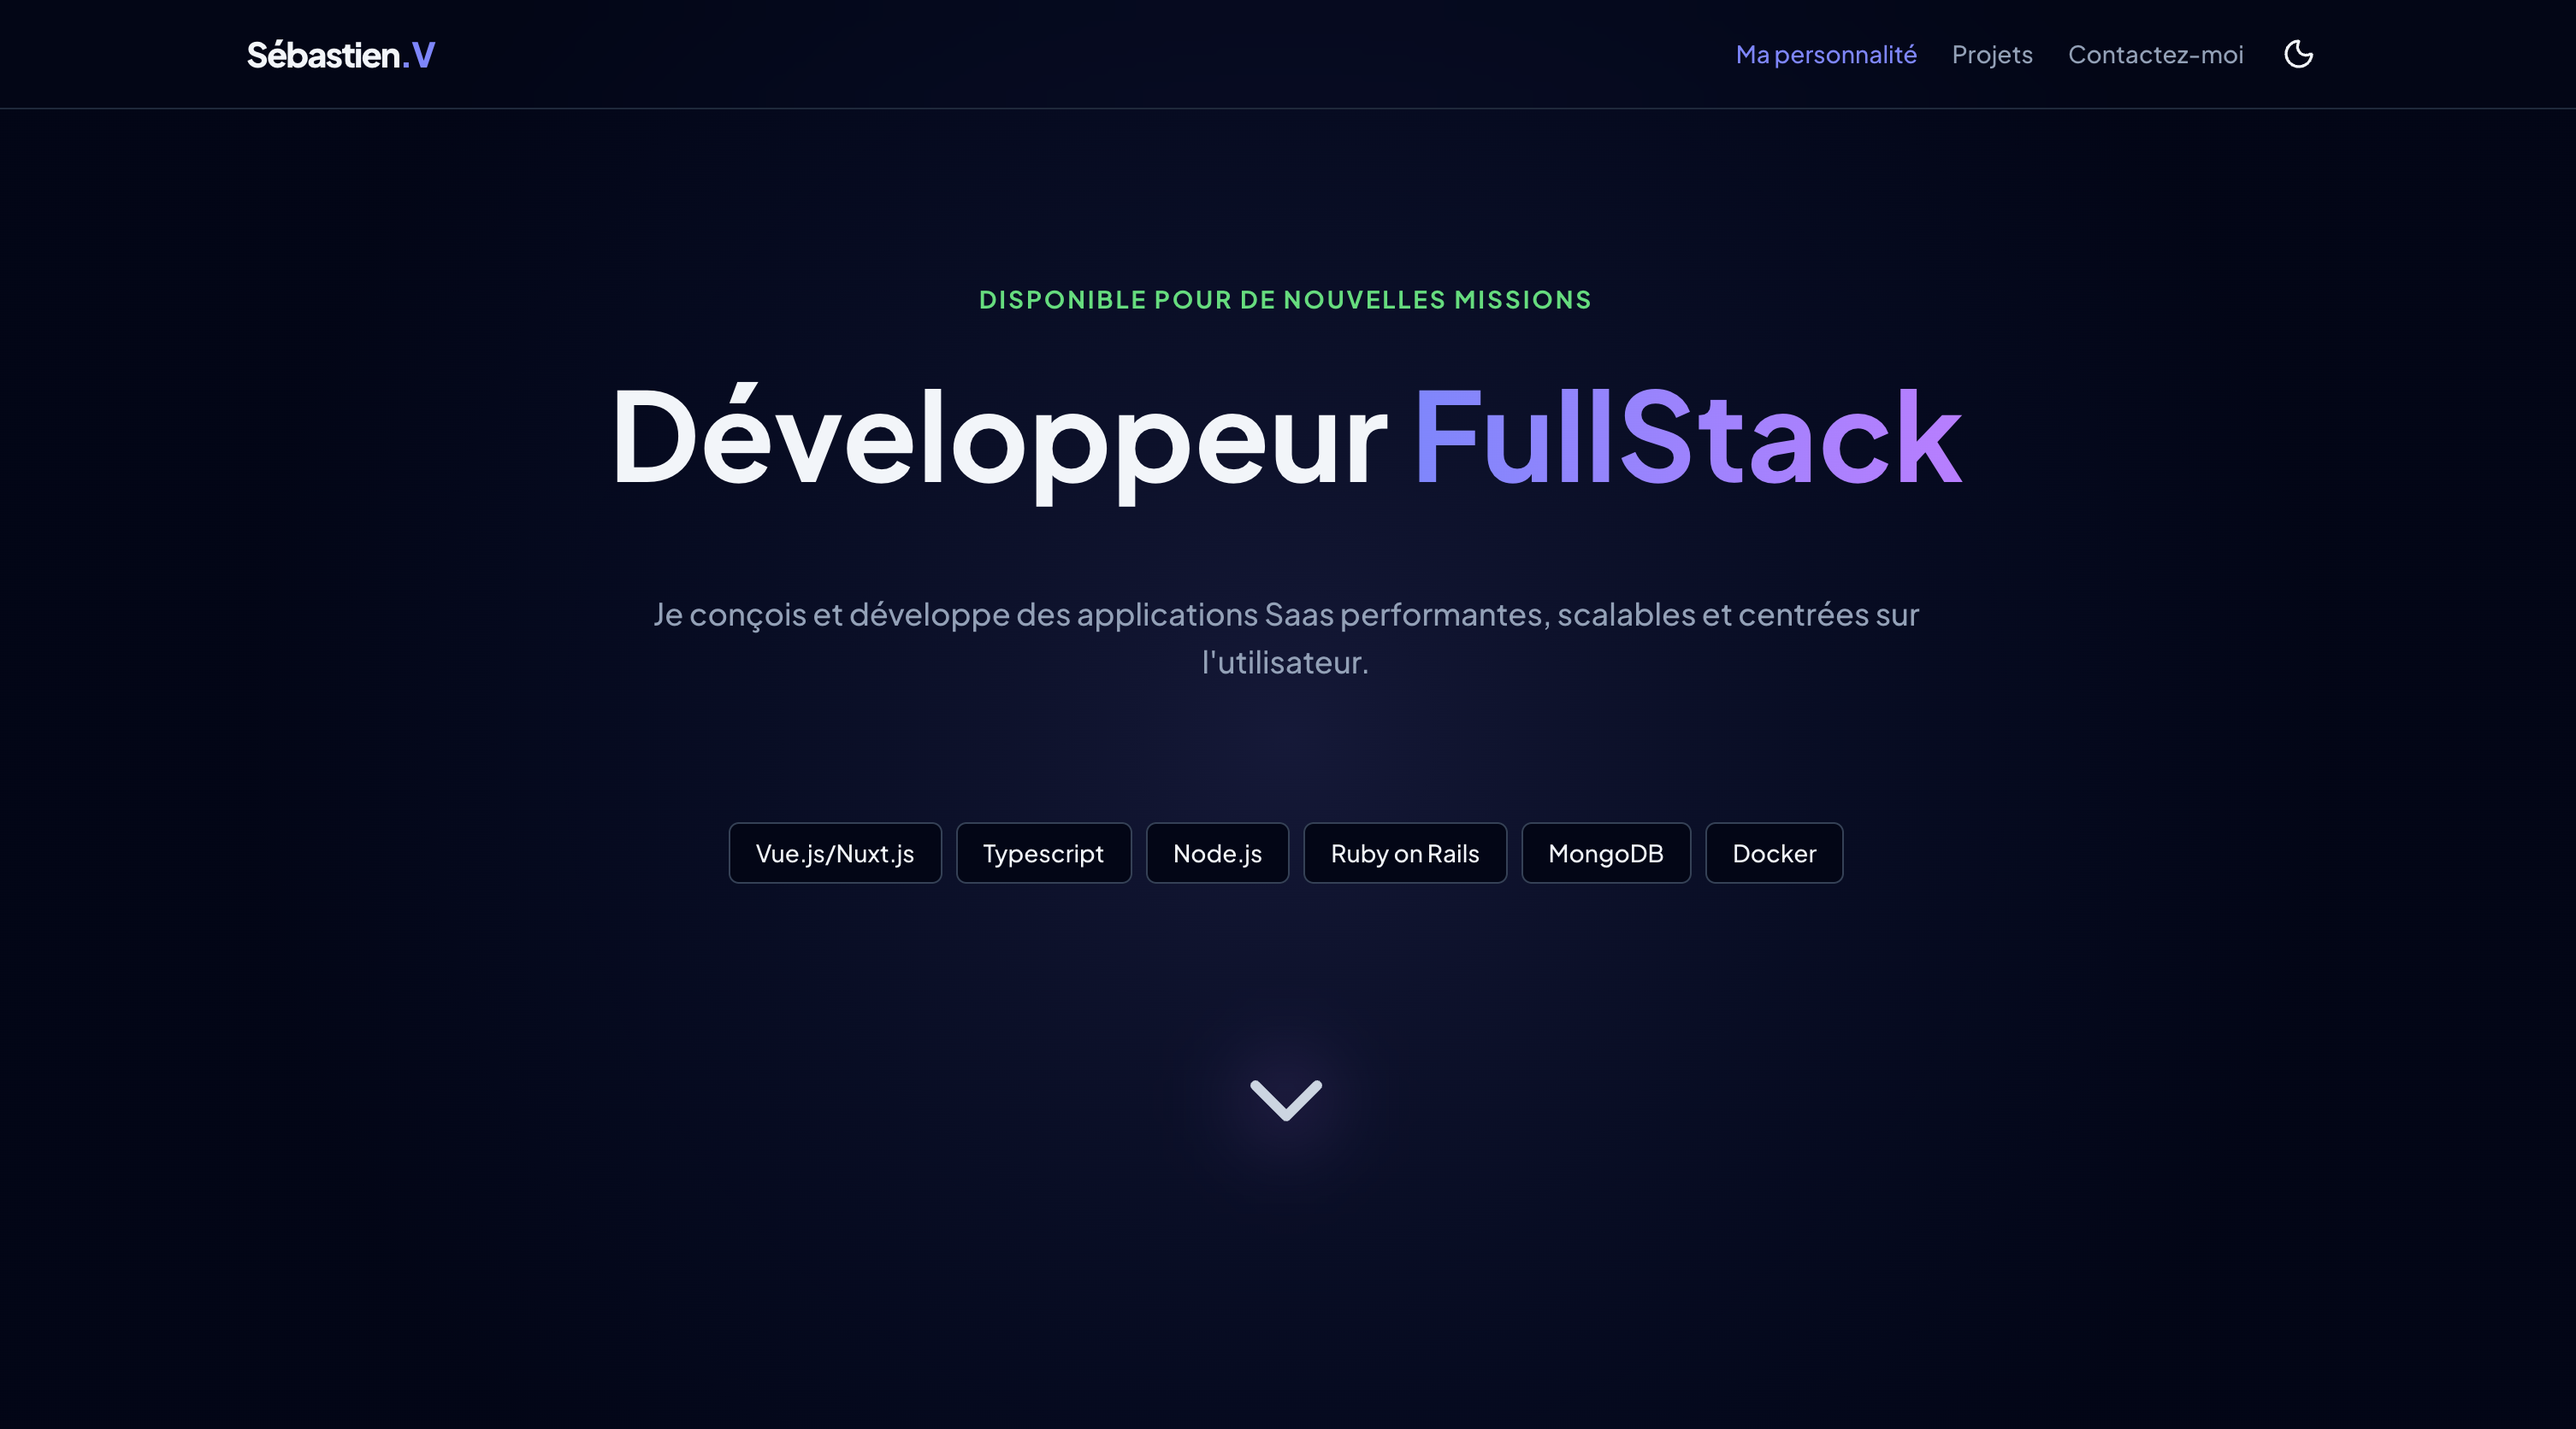
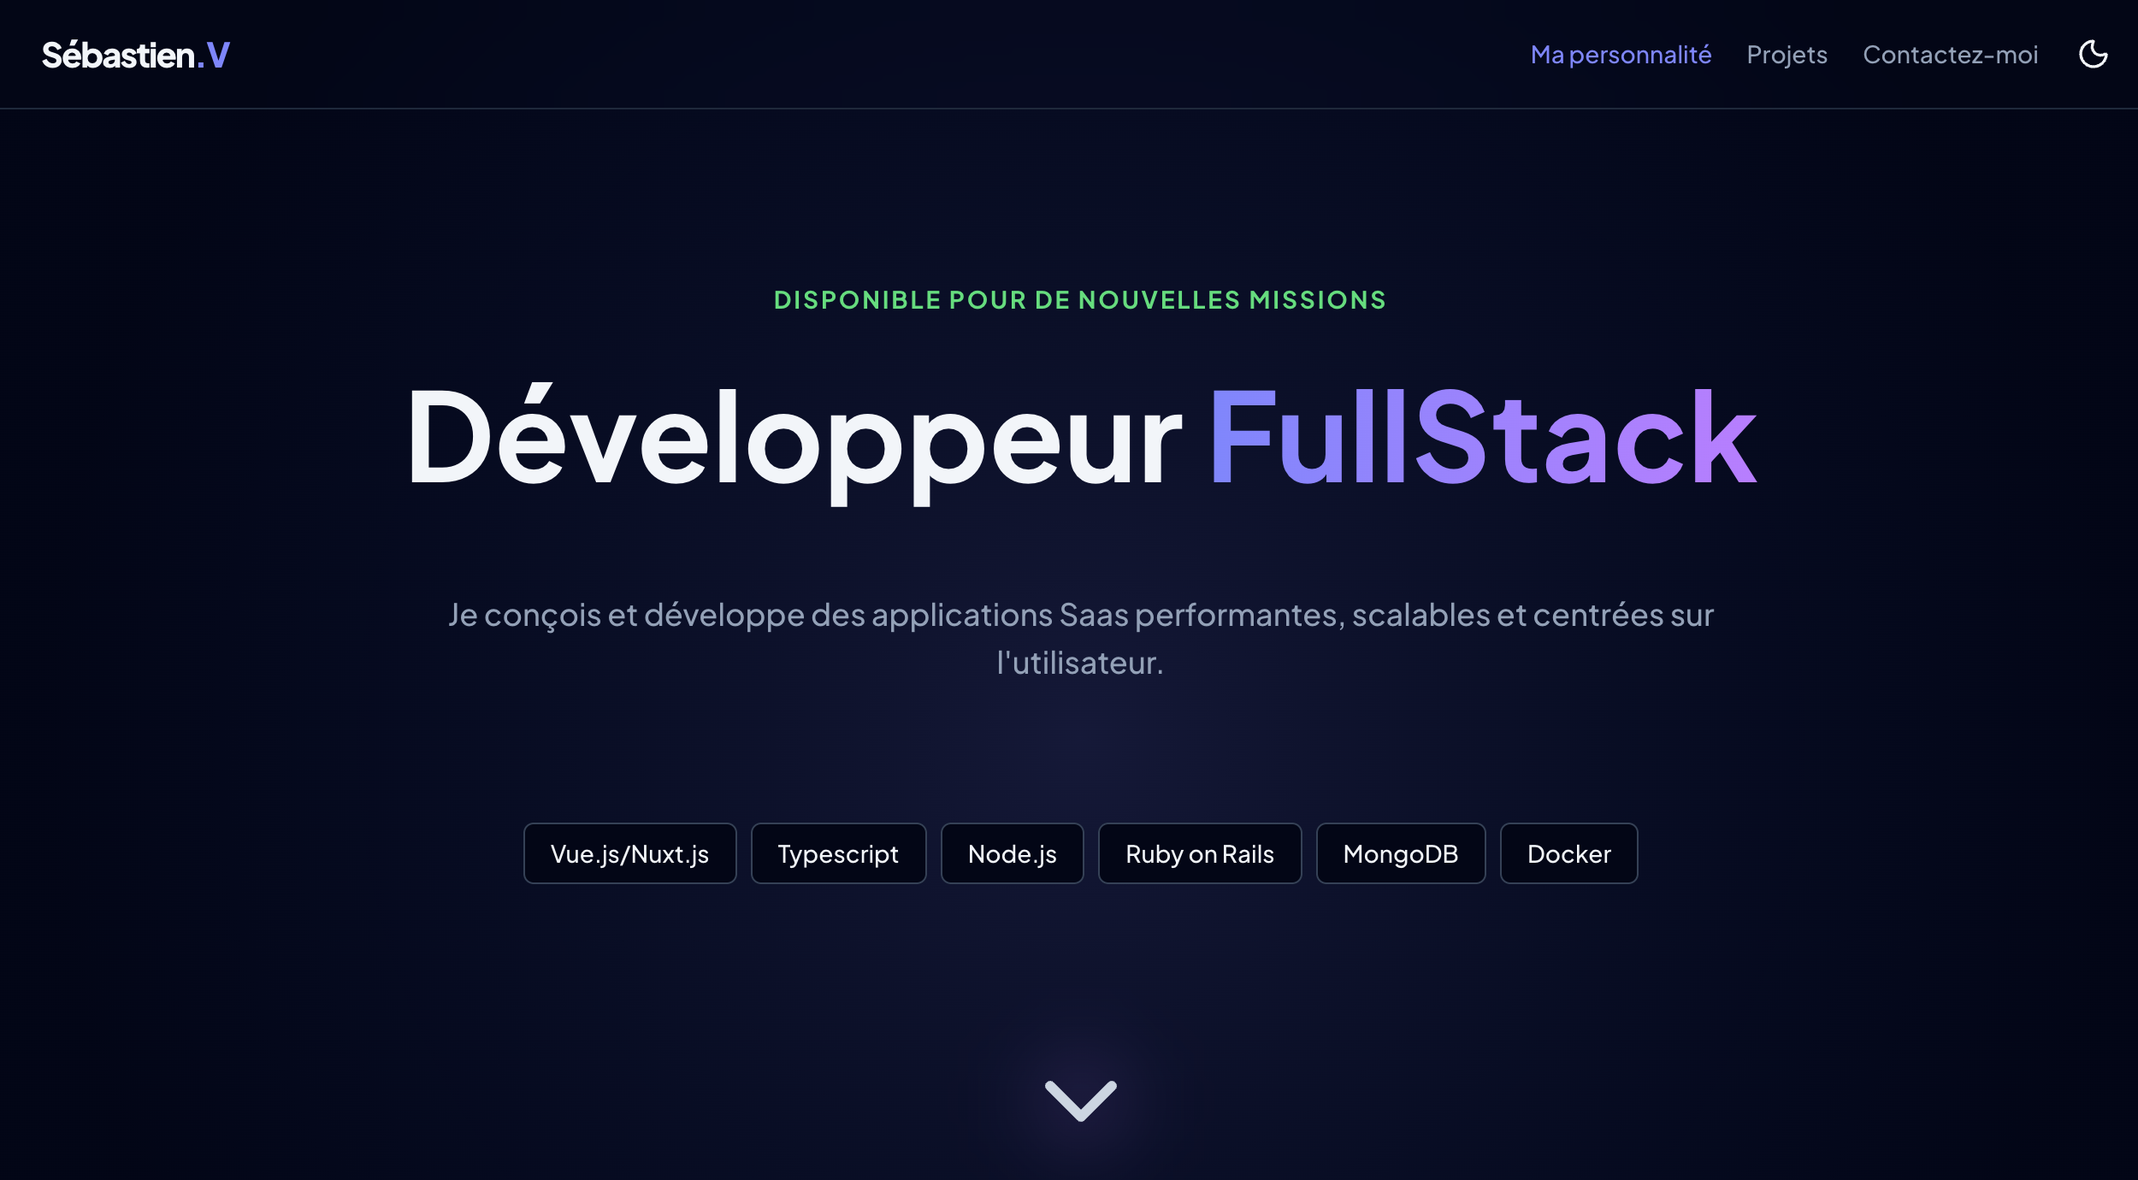
refactor: remove Twitter card metadata from SEO configuration and update Open Graph properties

diff --git a/app/app.vue b/app/app.vue
@@ -48,15 +48,11 @@ useSeoMeta({
     ogTitle: () => seo.value?.ogTitle || '',
     ogDescription: () => seo.value?.ogDescription || '',
     ogImage: () => seo.value?.ogImage || '',
+    ogImageWidth: 2500,
+    ogImageHeight: 1380,
     ogUrl: () => seo.value?.ogUrl || '',
     ogType: 'website',
-    ogSiteName: () => seo.value?.ogSiteName || '',
-
-    // Twitter
-    twitterCard: 'summary_large_image',
-    twitterTitle: () => seo.value?.twitterTitle || '',
-    twitterDescription: () => seo.value?.twitterDescription || '',
-    twitterImage: () => seo.value?.twitterImage || '',
+    ogSiteName: () => seo.value?.ogSiteName || ''
 })
 
 

diff --git a/content.config.ts b/content.config.ts
@@ -88,10 +88,6 @@ export default defineContentConfig({
                 ogUrl: z.string().nonempty(),
                 ogSiteName: z.string().nonempty(),
 
-                twitterTitle: z.string().nonempty(),
-                twitterDescription: z.string().nonempty(),
-                twitterImage: z.string().nonempty(),
-
                 schemaOrg: z.object({
                     person: z.object({
                         name: z.string().nonempty(),
